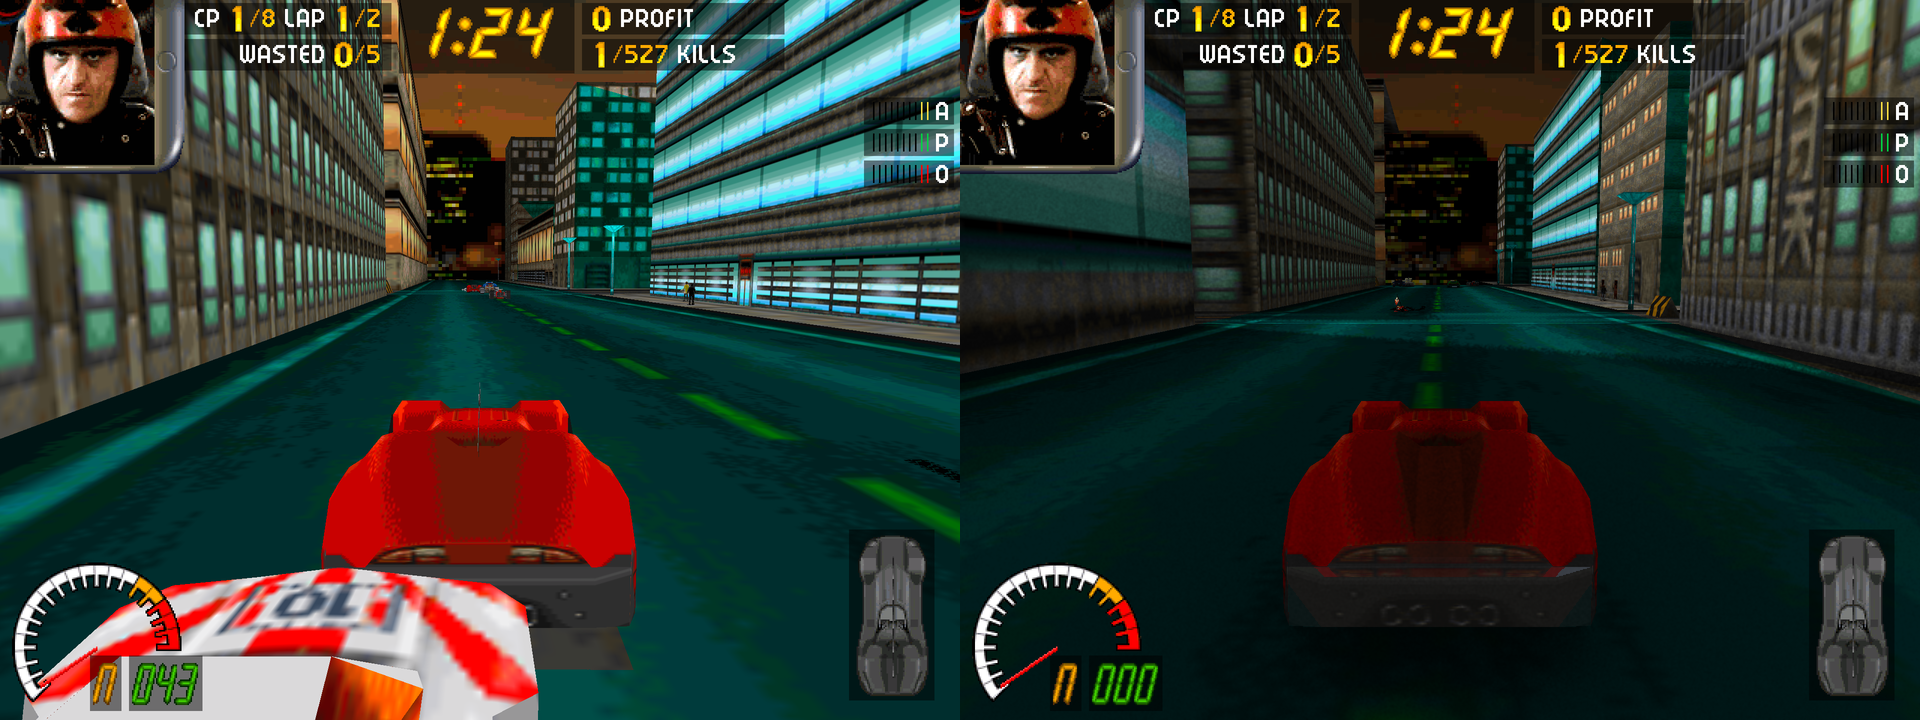
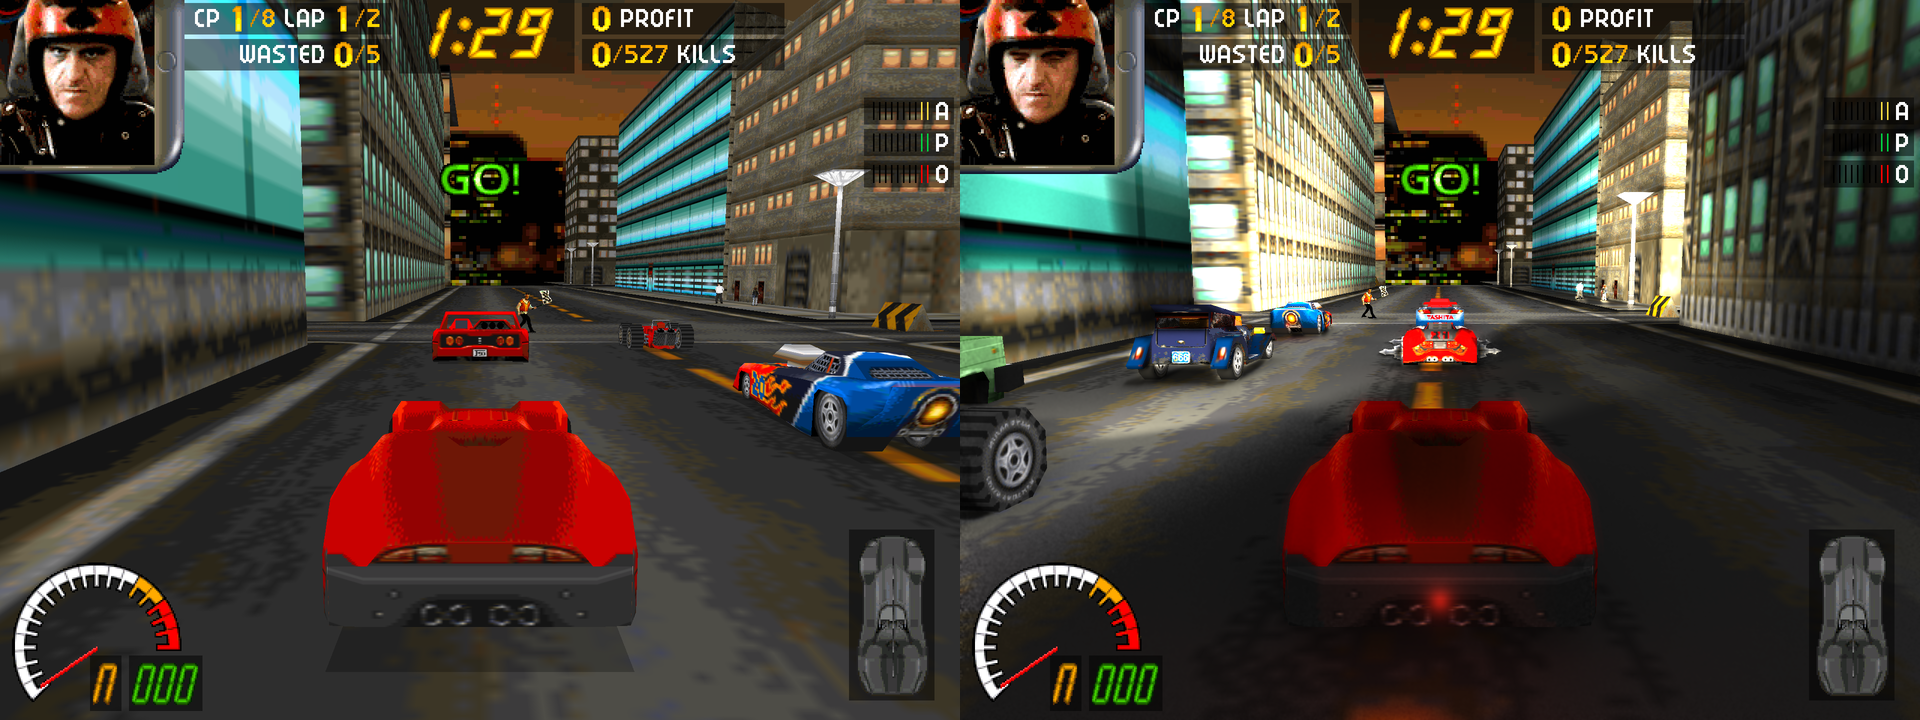
README: mark the ray tracing fork as work in progress, refresh screenshots

diff --git a/README.md b/README.md
@@ -6,7 +6,10 @@
 
 Dethrace is an attempt to learn how the 1997 driving/mayhem game [Carmageddon](https://en.wikipedia.org/wiki/Carmageddon) works behind the scenes and rebuild it to run natively on modern systems.
 
-## Ray tracing fork
+## Ray tracing fork (work in progress)
+
+**This is a work in progress**: expect rough edges, tuning that changes from
+commit to commit, and the occasional visual glitch. Feedback is welcome.
 
 This fork adds hybrid ray tracing to the OpenGL renderer: sun shadows, ambient
 occlusion, reflections, and light from the environment (street lamps, car
@@ -16,7 +19,7 @@ and running at 60 fps. Start the game with `--raytracing`. See
 
 ![Ray traced Carmageddon](docs/images/raytracing.png)
 
-Before / after:
+Before / after (plain OpenGL renderer on the left, ray traced on the right):
 
 ![Before and after](docs/images/raytracing-before-after.png)
 
